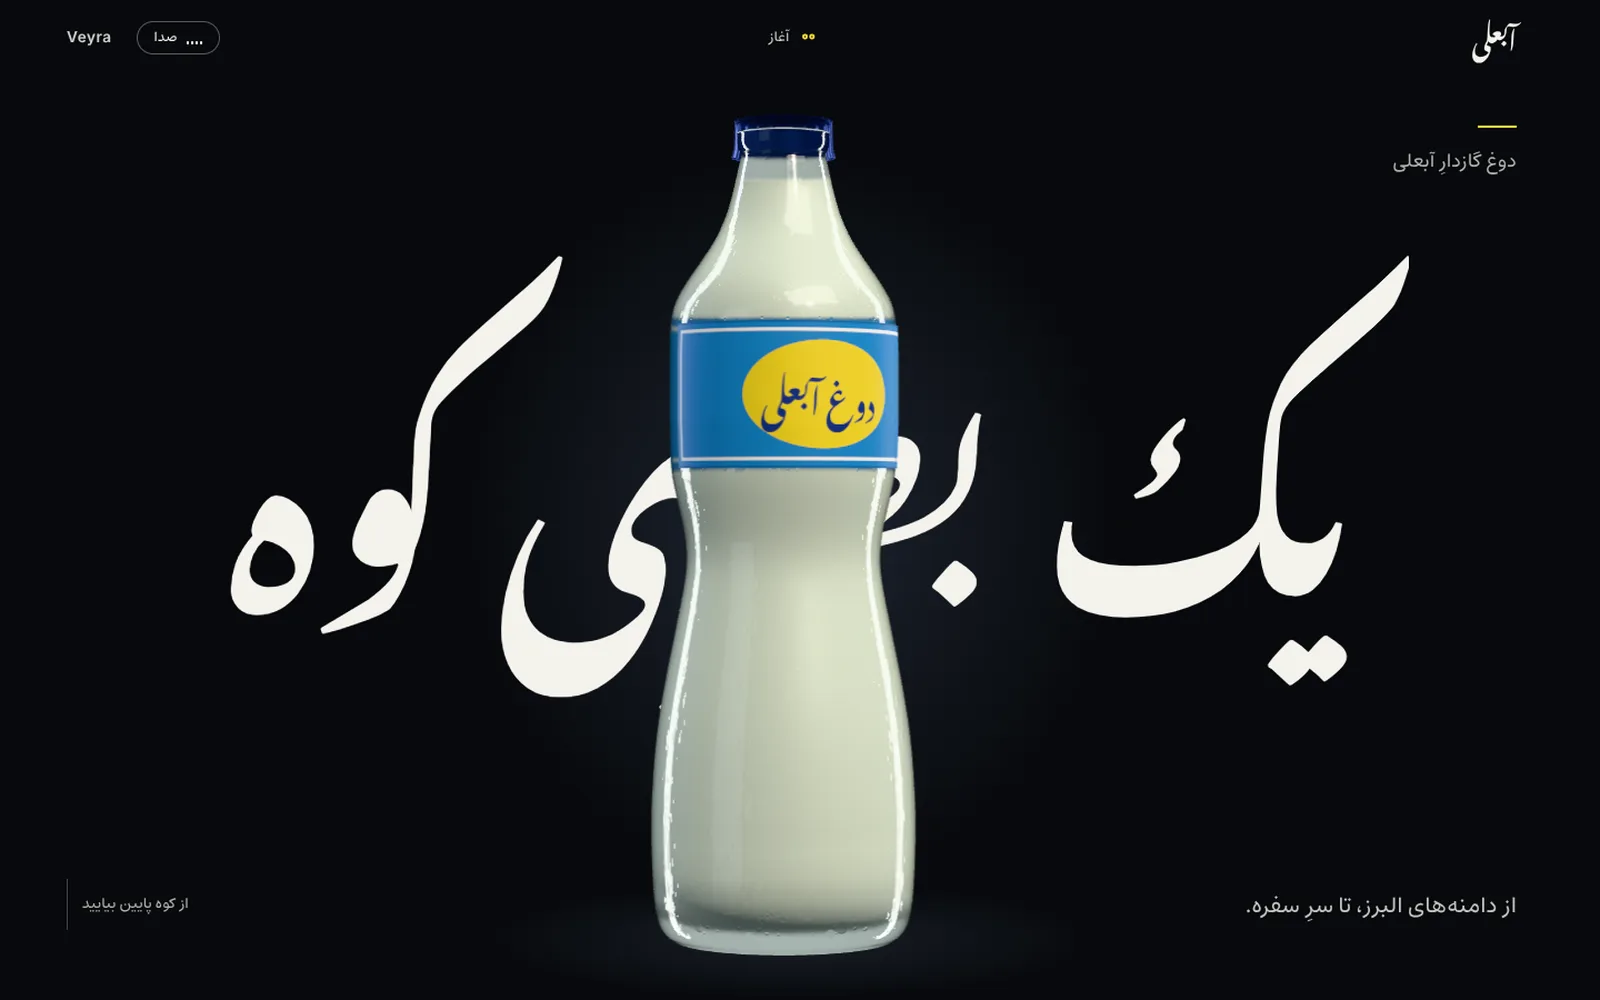
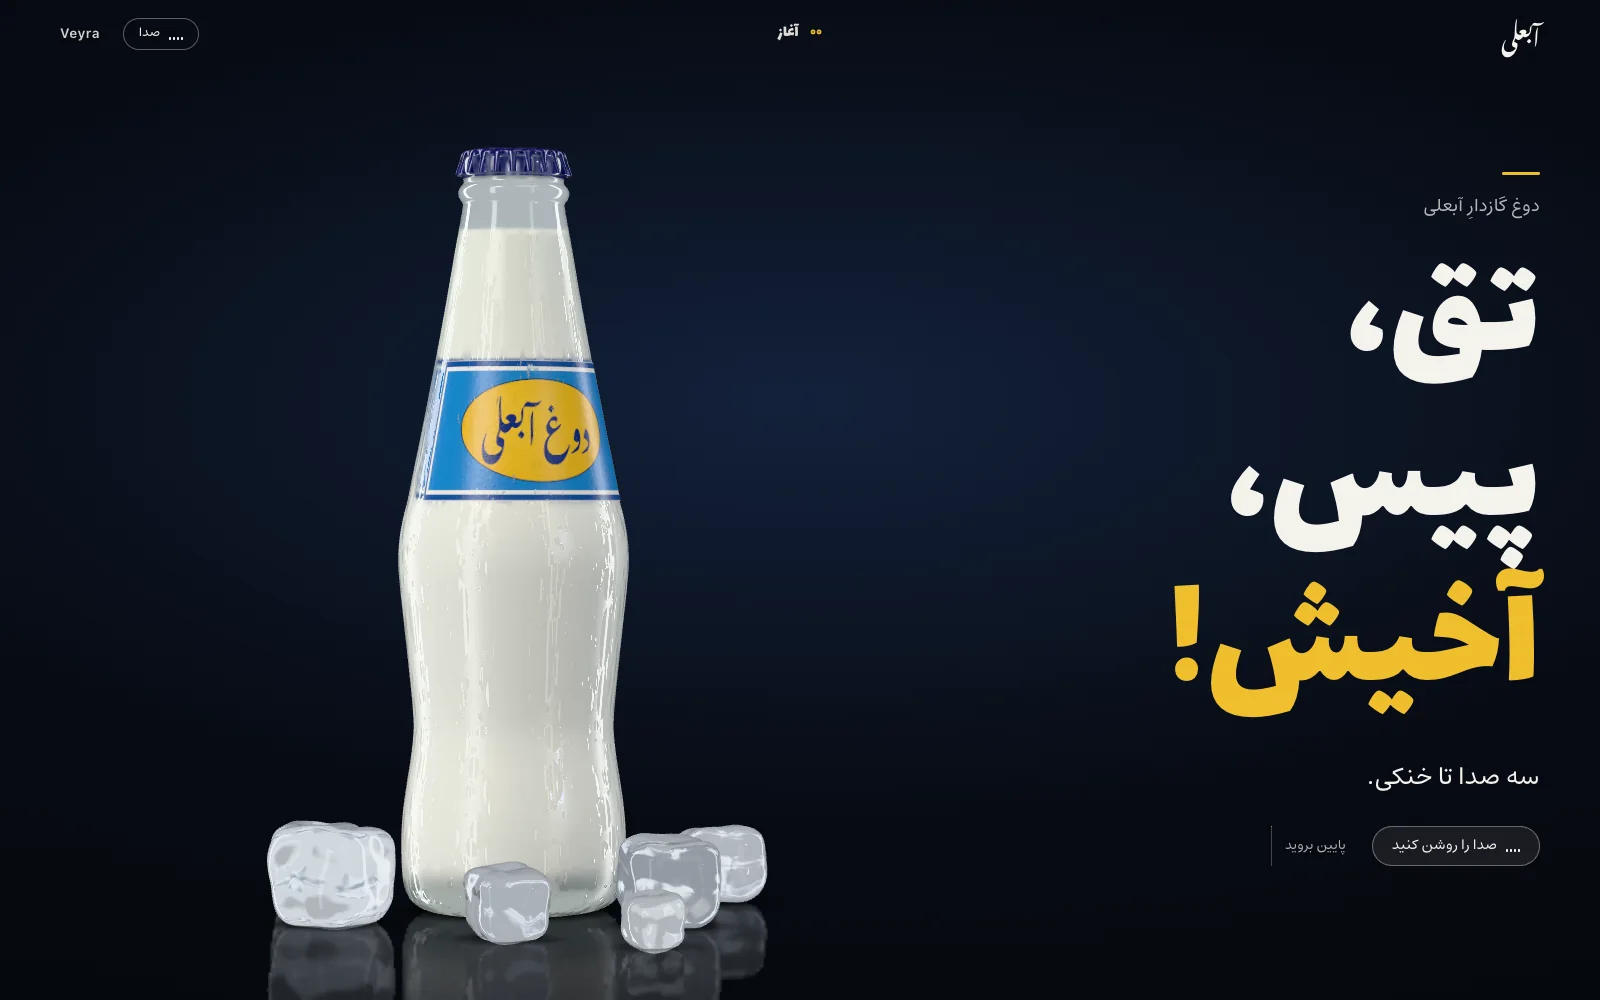
Abali case study: the new concept «تق، پیس، آخیش!»
New tagline and copy in both languages (no claim about the name's origin), the hero image recaptured from the redesigned site, the engine demo's label in the real label's colors, the type sample set to the new slogan, engine 0.3.

diff --git a/src/i18n/content.ts b/src/i18n/content.ts
@@ -140,7 +140,7 @@ export const en: Content = {
     ],
     live: { fps: 'fps', frame: 'frame', quality: 'quality', dpr: 'pixel ratio', refresh: 'display', tiers: { low: 'low', medium: 'medium', high: 'high' } },
     springHint: 'Drag the dot. Let go.',
-    typeSample: 'یک بطری کوه',
+    typeSample: 'تق، پیس، آخیش!',
     typeNaive: 'Naive split',
     typeVeyra: 'Veyra split',
     scrollProgress: 'This section’s progress',
@@ -174,12 +174,12 @@ export const en: Content = {
     kicker: 'Work',
     case: 'Case 001',
     title: 'Abali',
-    tagline: 'A bottle of mountain.',
-    body: 'A Persian, right-to-left campaign concept for Doogh Abali, the carbonated yogurt drink named after a place in the Alborz mountains. The bottle is built live in 3D; its label opens into a landscape; the fizz builds when you shake it.',
+    tagline: 'Tak, hiss, ahh!',
+    body: 'A Persian, right-to-left campaign concept for Doogh Abali, the carbonated yogurt drink in a glass bottle. A cold Abali is three sounds — the opener on the crown cap, the gas escaping, the first sip — and the film stretches them into a scroll: a bottle rebuilt from photographs of the real one, a cap that flips off, foam that boils over and turns to snow on the mountains around Abali, and a sofreh that fills dish by dish.',
     facts: [
       ['Language', 'Persian, RTL'],
-      ['Built with', 'Veyra Core + three.js'],
-      ['Assets', 'All generated live — no photos'],
+      ['Built with', 'Veyra Core 0.3 + three.js'],
+      ['Assets', 'All generated live — no photos, no model files'],
       ['Sound', 'Synthesized, optional'],
     ],
     cta: 'Open the experience',
@@ -255,7 +255,7 @@ export const fa: Content = {
     ],
     live: { fps: 'فریم بر ثانیه', frame: 'زمان فریم', quality: 'کیفیت', dpr: 'تراکم پیکسل', refresh: 'نمایشگر', tiers: { low: 'پایین', medium: 'متوسط', high: 'بالا' } },
     springHint: 'نقطه را بکشید و رها کنید.',
-    typeSample: 'یک بطری کوه',
+    typeSample: 'تق، پیس، آخیش!',
     typeNaive: 'تقسیمِ ساده',
     typeVeyra: 'تقسیمِ ویرا',
     scrollProgress: 'پیشرفتِ همین بخش',
@@ -289,12 +289,12 @@ export const fa: Content = {
     kicker: 'کارها',
     case: 'نمونهکار ۰۰۱',
     title: 'آبعلی',
-    tagline: 'یک بطری کوه.',
-    body: 'طرحی مفهومی، فارسی و راستبهچپ برای دوغ گازدار آبعلی؛ نوشیدنیای که نامش را از جایی در البرز گرفته. بطری بهصورت زنده و سهبعدی ساخته میشود، برچسبش به منظره باز میشود، و اگر تکانش بدهید گازش بالا میزند.',
+    tagline: 'تق، پیس، آخیش!',
+    body: 'طرحی مفهومی، فارسی و راستبهچپ برای دوغ گازدارِ آبعلی. یک آبعلیِ سرد سه صدا دارد: دربازکن روی درِ تاجی، گازی که بیرون میزند، و اولین قلپ. فیلم همین سه صدا را با اسکرول کش میدهد: بطریای که از روی عکسهای محصولِ واقعی ساخته شده، دری که میپرد، کفی که سر میرود و برفِ کوههای آبعلی میشود، و سفرهای که بشقاببهبشقاب چیده میشود.',
     facts: [
       ['زبان', 'فارسی، راستبهچپ'],
-      ['ساختهشده با', 'هستهٔ ویرا و three.js'],
-      ['تصویرها', 'همه زنده با کد ساخته میشوند'],
+      ['ساختهشده با', 'هستهٔ ویرا ۰٫۳ و three.js'],
+      ['تصویرها', 'همه زنده با کد ساخته میشوند؛ بیعکس، بیفایلِ سهبعدی'],
       ['صدا', 'ساختهشده با کد، اختیاری'],
     ],
     cta: 'تجربه را باز کنید',

diff --git a/src/styles/global.css b/src/styles/global.css
@@ -808,23 +808,27 @@ html.veil-text .wordmark {
   align-content: center;
   gap: 1.2rem;
   text-decoration: none;
-  background: radial-gradient(circle at 50% 40%, #1a2a52, #0b1028 70%);
+  /* Abali's studio: a pool of blue light on black. */
+  background: radial-gradient(circle at 50% 40%, #13213a, #070b13 62%, #05070b);
 }
+/* The real label: a darker border, a white rule, a cerulean field, a golden oval. */
 .dw-label {
   display: grid;
   place-items: center;
   padding: 0.7rem 1rem;
-  background: #2a8bd3;
-  outline: 2px solid #fff;
-  outline-offset: -6px;
+  background: #2c8ed8;
+  border: 4px solid #1d58a6;
+  outline: 2px solid #f4f7f6;
+  outline-offset: -8px;
   transition: transform 0.6s var(--ease-glide);
 }
 .dw-oval {
   display: block;
   padding: 0.2rem 1.6rem 0.4rem;
   border-radius: 50%;
-  background: #f5dd3a;
-  color: #1f3a8a;
+  background: #f0bd2c;
+  box-shadow: 0 0 0 1.5px #1f4672;
+  color: #1d3784;
   font-family: 'Markazi Text Variable', serif;
   font-weight: 700;
   font-size: 1.5rem;
@@ -1457,9 +1461,8 @@ html[data-reduced-motion] .np-replay {
   display: grid;
   place-items: center;
   background:
-    radial-gradient(ellipse 22% 14% at 50% 50%, #f5dd3a 98%, transparent 100%),
-    #2a8bd3;
-  color: #1f3a8a;
+    radial-gradient(circle at 50% 40%, #13213a, #070b13 62%, #05070b);
+  color: #f4f2ec;
   font-family: 'Markazi Text Variable', serif;
   font-weight: 700;
   font-size: clamp(1.5rem, 3vw, 3rem);
